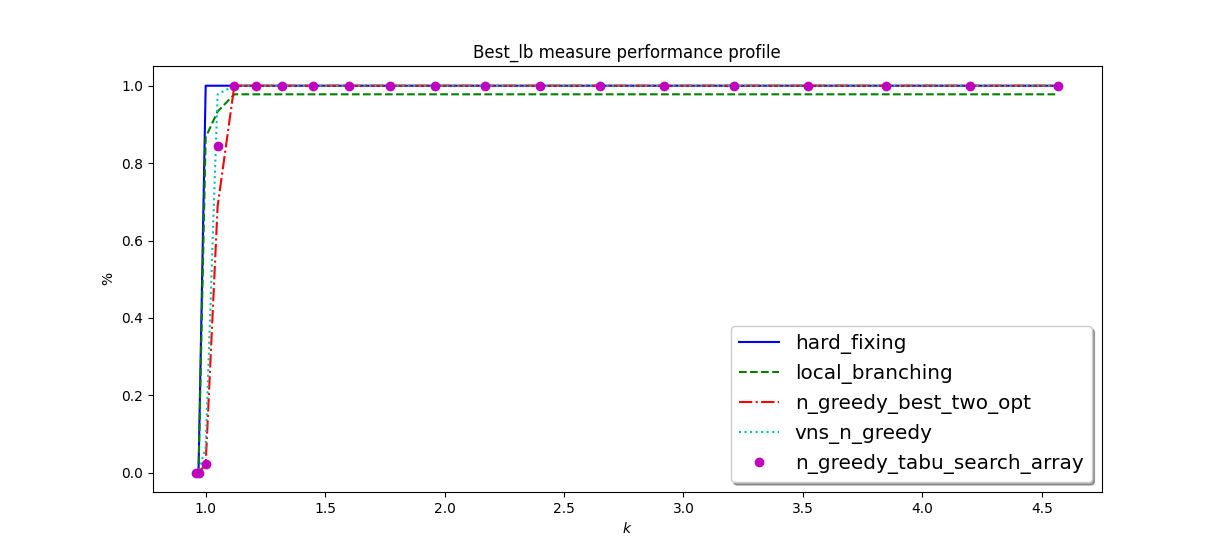
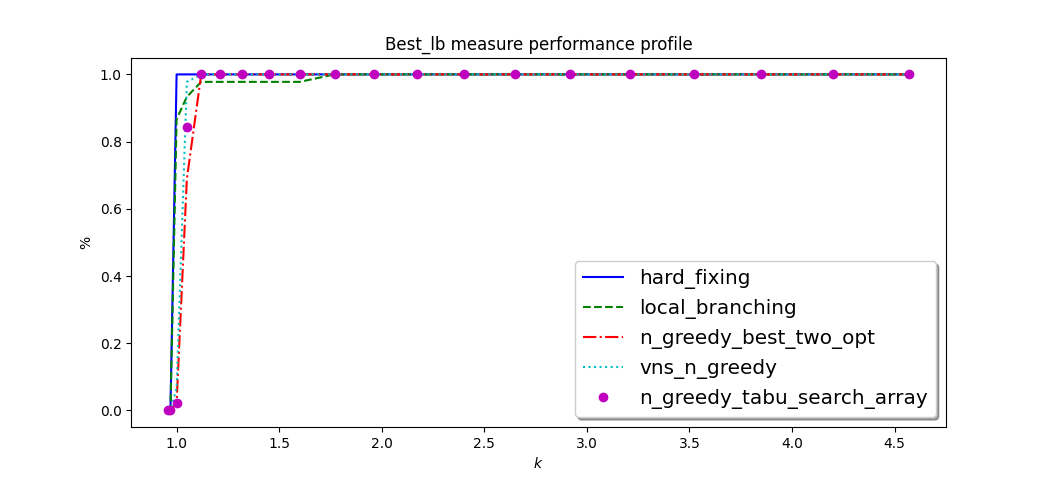
constructive, mip meta, latex update

diff --git a/Latex/Report.tex b/Latex/Report.tex
@@ -153,115 +153,105 @@
 	
 	\begin{appendices}
 		\chapter{Test-bed} \label{sec:testset}
-		The TSPLIB \cite{TSPLIB} is a library that contain different instances of TSP problem and its best solution found. All the file described in this section are part of the TSPLIB. To test the developed algorithm three different set have been prepared, depending on the number of node ($=|V|$) in the graph: Data Light, Data Average and Data Heavy.\\
-		These are all intended as sTSP, however the same instance can be considered also for aTSP replacing each edge with two arches with opposite direction. This subdivision is justified by the different execution time of the algorithms: it is more interesting to compare the performance of different algorithms in similar instances.\\
+		The TSPLIB \cite{TSPLIB} is a library that contain different instances of TSP problem and its best solution found. All the file described in this section are part of the TSPLIB. To test the developed algorithm three different set have been prepared, depending on the number of node ($|V|$) in the graph: Data Light, Data Average and Data Heavy.\\
+		These are all intended as sTSP, however the same instance can be considered also for aTSP replacing each edge with two arches with opposite direction. This subdivision is justified by the different execution time of the algorithms: it is more interesting to compare the performance of different algorithms in similar instances.
 		
 		\textbf{Data Light ($ |V| \le 150 $):}
-		\begin{multicols}{4}
-			\begin{itemize}
-				\item att48.tsp
-				\item berlin52.tsp
-				\item bier127.tsp
-				\item burma14.tsp
-				\item ch130.tsp
-				\item ch150.tsp
-				\item eil101.tsp
-				\item eil51.tsp
-				\item eil76.tsp
-				\item gr137.tsp
-				\item gr96.tsp
-				\item kroA100.tsp
-				\item kroA150.tsp
-				\item kroB100.tsp
-				\item kroB150.tsp
-				\item kroC100.tsp
-				\item kroD100.tsp
-				\item kroE100.tsp
-				\item lin105.tsp
-				\item pr107.tsp
-				\item pr124.tsp
-				\item pr136.tsp
-				\item pr144.tsp
-				\item pr76.tsp
-				\item rat99.tsp
-				\item rd100.tsp
-				\item st70.tsp
-				\item ulysses16.tsp
-				\item ulysses22.tsp
-			\end{itemize}
+		\begin{multicols}{5}
+			att48.tsp \\
+			berlin52.tsp \\
+			bier127.tsp \\
+			burma14.tsp \\
+			ch130.tsp \\
+			ch150.tsp \\
+			eil101.tsp \\
+			eil51.tsp \\
+			eil76.tsp \\
+			gr137.tsp \\
+			gr96.tsp \\
+			kroA100.tsp \\
+			kroA150.tsp \\
+			kroB100.tsp \\
+			kroB150.tsp \\
+			kroC100.tsp \\
+			kroD100.tsp \\
+			kroE100.tsp \\
+			lin105.tsp \\
+			pr107.tsp \\
+			pr124.tsp \\
+			pr136.tsp \\
+			pr144.tsp \\
+			pr76.tsp \\
+			rat99.tsp \\
+			rd100.tsp \\
+			st70.tsp \\
+			ulysses16.tsp \\
+			ulysses22.tsp \\
 		\end{multicols}
-		
-		
 		\textbf{Data Average ($ 150 < |V| \le 300 $):}
-		\begin{multicols}{4}
-			\begin{itemize}
-				\item a280.tsp
-				\item d198.tsp
-				\item gil262.tsp
-				\item gr202.tsp
-				\item gr229.tsp
-				\item kroA200.tsp
-				\item kroB200.tsp
-				\item pr152.tsp
-				\item pr226.tsp
-				\item pr264.tsp
-				\item pr299.tsp
-				\item rat195.tsp
-				\item rkoA200.tsp
-				\item ts225.tsp
-				\item tsp225.tsp
-				\item u159.tsp
-			\end{itemize}
+		\begin{multicols}{5}
+				a280.tsp \\
+				d198.tsp \\
+				gil262.tsp \\
+				gr202.tsp \\
+				gr229.tsp \\
+				kroA200.tsp \\
+				kroB200.tsp \\
+				pr152.tsp \\
+				pr226.tsp \\
+				pr264.tsp \\
+				pr299.tsp \\
+				rat195.tsp \\
+				rkoA200.tsp \\
+				ts225.tsp \\
+				tsp225.tsp \\
+				u159.tsp \\
 		\end{multicols}
-		
-		
 		\textbf{Data Heavy ($|V| > 300$):}
-		\begin{multicols}{4}
-			\begin{itemize}
-				\item ali535.tsp
-				\item att532.tsp
-				\item brd14051.tsp
-				\item d1291.tsp
-				\item d1655.tsp
-				\item d18512.tsp
-				\item d2103.tsp
-				\item d493.tsp
-				\item d657.tsp
-				\item fl1400.tsp
-				\item fl1577.tsp
-				\item fl3795.tsp
-				\item fl417.tsp
-				\item fnl4461.tsp
-				\item gr431.tsp
-				\item gr666.tsp
-				\item nrw1379.tsp
-				\item p654.tsp
-				\item pcb1173.tsp
-				\item pcb3038.tsp
-				\item pcb442.tsp
-				\item pr1002.tsp
-				\item pr2392.tsp
-				\item pr439.tsp
-				\item rat575.tsp
-				\item rat783.tsp
-				\item rd400.tsp
-				\item rl11849.tsp
-				\item rl1304.tsp
-				\item rl1323.tsp
-				\item rl1889.tsp
-				\item rl5915.tsp
-				\item rl5934.tsp
-				\item u1060.tsp
-				\item u1432.tsp
-				\item u1817.tsp
-				\item u2152.tsp
-				\item u2319.tsp
-				\item u574.tsp
-				\item u724.tsp
-				\item usa13509.tsp
-				\item vm1084.tsp
-				\item vm1748.tsp
-			\end{itemize}
+		\begin{multicols}{5}
+			ali535.tsp \\
+			att532.tsp \\
+			brd14051.tsp \\
+			d1291.tsp \\
+			d1655.tsp \\
+			d18512.tsp \\
+			d2103.tsp \\
+			d493.tsp \\
+			d657.tsp \\
+			fl1400.tsp \\
+			fl1577.tsp \\
+			fl3795.tsp \\
+			fl417.tsp \\
+			fnl4461.tsp \\
+			gr431.tsp \\
+			gr666.tsp \\
+			nrw1379.tsp \\
+			p654.tsp \\
+			pcb1173.tsp \\
+			pcb3038.tsp \\
+			pcb442.tsp \\
+			pr1002.tsp \\
+			pr2392.tsp \\
+			pr439.tsp \\
+			rat575.tsp \\
+			rat783.tsp \\
+			rd400.tsp \\
+			rl11849.tsp \\
+			rl1304.tsp \\
+			rl1323.tsp \\
+			rl1889.tsp \\
+			rl5915.tsp \\
+			rl5934.tsp \\
+			u1060.tsp \\
+			u1432.tsp \\
+			u1817.tsp \\
+			u2152.tsp \\
+			u2319.tsp \\
+			u574.tsp \\
+			u724.tsp \\
+			usa13509.tsp \\
+			vm1084.tsp \\
+			vm1748.tsp
 		\end{multicols}
 		
 		\chapter{Performance measure} \label{sec:performance_meausure}

diff --git a/Latex/mip-heuristics.tex b/Latex/mip-heuristics.tex
@@ -13,25 +13,32 @@ The algorithm can be divided in step:
 	\item check end condition: if the time limit is reached, or $ f_r = 0.0 $ and the solution is not improved in the last iteration then the solution is returned. Note that in the second case, the best solution is found. In case that no ending condition is satisfy, the algorithm continue with point 3.
 \end{enumerate}
 
-The performance profile as shown in fig \ref{fig:Lsubtours_hardfixing_lightaverage_time}. Hard fixing has performance comparable with the exact model.
-
-\begin{figure}[h]
-	\centering
-	\includegraphics[width=\columnwidth]{../res/Lsubtours_hardfixing_lightaverage_time.png}
-	\caption{Performance profile to compare subtours methods with \textit{hard\_fixing}. The name of \textit{hard\_fix} model contain in order: $ max\_f_r, incr_fr, decr\_f_r, good\_gap, optimal\_gap $. The test set is the composition of data\_light and data\_average.}
-	\label{fig:Lsubtours_hardfixing_lightaverage_time}
-\end{figure}
-
-
 \section{Local-Branching}
 The Local Branching is a relatively recent algorithm developed by Matteo Fischetti and Andrea Lodi, who wanted to propose an alternative method to Hard-Fixing. The Hard Fixing method, as stated above, fix randomly a percentage of edges and optimize the problem, Local Branching, instead, let the MIP model to fix the same percentage of edges automatically and than optimize. \\
 Consider $ x^H $ as non optimal tour and $ \chi $ the fraction of edges to fix, Local Branching add $ \sum_{ e\in E: x_e^H = 1 } x_e \ge \chi n $ to automatically fix the desired number of edges. \\ 
 In this paper, the structure of the algorithm is very similar to that of Hard-Fixing. Initialization is analogous to Point 1 (\ref{hard-fix-step})
 In the CPLEX optimization with time limit (Point 3), the time limit is a little higher and is set to 300 according to the choice of the fixing rate update. Thus, the fixing rate is an array consisting of 5 values {3.0, 5.0, 10.0, 15.0, 20.0}. It starts from the first value of 3.0 which is kept until better solutions are found. It is updated to the next value as soon as the algorithm returns a non-improving solution. \\
 This choice is motivated by the idea that keeping a low fixing rate allows you to find a solution in a short time and therefore not reach the time limit, which instead is set with a higher value to allow a longer search when the degrees of freedom increase.
-In this way, searches with high fixed\_rate are carried out only to find a new improvement solution in a larger neighborhood and are more successful with higher time limits. But as soon as a solution is found, it returns to the low and therefore fast fixed\_rate.\\
+In this way, searches with high fixed\_rate are carried out only to find a new improvement solution in a larger neighborhood and are more successful with higher time limits. But as soon as a solution is found, it returns to the lower and therefore faster fixed\_rate.\\
 Finally the check end condition: \\
 For a detailed explanation of the reasons for this algorithm refer to \cite{article}.
+
+
+\begin{figure}[h]
+	\centering
+	\begin{subfigure}{\columnwidth}
+		\includegraphics[width=\columnwidth]{../res/Lmip_meta_LA_time.png}
+		\caption{}
+		\label{fig:Lmip_meta_LA_time}
+	\end{subfigure}
+	\begin{subfigure}{\columnwidth}
+		\includegraphics[width=\columnwidth]{../res/Lmip_meta_LA_lb.png}
+		\caption{}
+		\label{fig:Lmip_meta_LA_lb}
+	\end{subfigure}
+\caption{Comparison of mip heuristics and meta heuristics. \texttt{n\_greedy\_best\_two\_opt} is the first part of \texttt{vns} therefore it is faster, however the last one introduce a little improvement in the solutions cost. Most of the times \texttt{hard\_fixing} can find the best solution of sTSP indeed it find the shorter tours of the analyzed heuristics. }
+\label{fig:Lmip_meta_LA}
+\end{figure}
 
 %\section{RINS}
 %\section{Feasibility Pump}

diff --git a/Latex/refining-heuristics.tex b/Latex/refining-heuristics.tex
@@ -43,7 +43,7 @@ As can be seen in fig. \ref{fig:lb_time_grasp_best_two_opt_d2103} multiple execu
 \begin{figure}[!h]
 \centering
 \includegraphics[width=.6\columnwidth]{../res/lb_time_grasp_best_two_opt_d2103.png}
-\caption{Solution cost profile of \texttt{best\_two\_opt}. \texttt{GRASP} has been used to find the first available solution.}
+\caption{Solution cost profile of \texttt{best\_two\_opt}. \texttt{GRASP} solution is used as warm start.}
 \label{fig:lb_time_grasp_best_two_opt_d2103}
 \end{figure}
 
@@ -53,26 +53,26 @@ In fig.s \ref{fig:a280_10} and \ref{fig:a280_25} can be compared the \texttt{Gre
 \begin{figure}[!h]
 	\begin{subfigure}{.5\columnwidth}
 		\centering
-		\includegraphics[width=\columnwidth]{../res/a280_10.png}
-		\caption{\texttt{Greedy}: cost=2975, time=4s}
+		\includegraphics[width=\columnwidth]{../res/a280_28.png}
+		\caption{\texttt{n\_greedy\_10}: cost=3078, time=0.45s}
 		\label{fig:a280_10}
 	\end{subfigure}
 	\begin{subfigure}{.5\columnwidth}
 		\centering
 		\includegraphics[width=\columnwidth]{../res/a280_25.png}
-		\caption{\texttt{greedy\_best\_two\_opt}: cost=2685, time=4s.}
+		\caption{\texttt{n\_greedy\_best\_two\_opt}: cost=2683, time=0.06s}
 		\label{fig:a280_25}
 	\end{subfigure}
 	\begin{subfigure}{.5\columnwidth}
 		\centering
 		\includegraphics[width=\columnwidth]{../res/lb_greedy_best_two_opt_a280.png}
-		\caption{The profile of the solution cost over time of the \texttt{best\_two\_opt} optimization.}
+		\caption{The profile of the solution cost over time of the \texttt{best\_two\_opt} optimization phase.}
 		\label{fig:lb_greedy_best_two_opt_a280}
 	\end{subfigure}
 	\begin{subfigure}{.5\columnwidth}
 		\centering
 		\includegraphics[width=\columnwidth]{../res/a280_0.png}
-		\caption{\texttt{subtour\_callback\_general}: cost=2579, time=8s.}
+		\caption{\texttt{subtour\_callback\_general}: cost=2579, time=8s}
 		\label{fig:a280_0}
 	\end{subfigure}
 \end{figure}
@@ -92,7 +92,7 @@ In fig.s \ref{fig:a280_10} and \ref{fig:a280_25} can be compared the \texttt{Gre
 		\caption{Performance profile in solution cost domain.}
 		\label{fig:Lconstructives_refining_lb}
 	\end{subfigure}
-\caption{Performance profile of constructive heuristic}
+\caption{Performance profile of refining heuristic}
 \label{fig:pp_Lconstructives_refining}
 \end{figure}
 
@@ -112,7 +112,7 @@ The performance profile in fig. \ref{fig:pp_Lgreedy_refining} compare greedy alg
 		\caption{Performance profile in solution cost domain.}
 		\label{fig:Lgreedy_refining_LA_lb}
 	\end{subfigure}
-	\caption{Performance profile of constructive heuristic}
+	\caption{Comparison of constructive vs refining heuristics of greedy methods.}
 	\label{fig:pp_Lgreedy_refining}
 \end{figure}
 
@@ -133,7 +133,8 @@ The effectiveness of the refining heuristic depend from the warm start solution.
 	\caption{Performance profile in solution cost domain.}
 	\label{fig:Lgrasp_insertion_refining_LA_lb}
 \end{subfigure}
-\caption{Performance profile of constructive heuristic}
+\caption{Comparison of constructive vs refining heuristics of grasp and insertion methods.}
 \label{fig:pp_Lgrasp_insertion_refining}
 \end{figure}
 
+In conclusion, \texttt{best\_two\_opt} is a really useful refining heuristic for its time efficiency and cost effectiveness, however its effectiveness depend from how many cross edges has the warm start solution.

diff --git a/Latex/CPLEX.tex b/Latex/CPLEX.tex
@@ -29,20 +29,20 @@ The subtour elimination model described above enhance an exponential number of c
 \begin{figure}[h]
 	\begin{subfigure}{.5\textwidth}
 		\centering
-		\includegraphics[width=\columnwidth]{../res/Lsubtours_average_time.png}
-		\caption{Performance profile of \textit{subtour} models on Data Average}
+		\includegraphics[width=\columnwidth]{../res/Lsubtours_lightaverage_time.png}
+		\caption{Performance profile of \textit{subtour} models on Data Average and Data Light}
 		\label{fig:res_subtour_av}
 	\end{subfigure}
 	\begin{subfigure}{.5\textwidth}
 	\centering
-	\includegraphics[width=\columnwidth]{../res/Lsubtours_light_time.png}
-	\caption{Performance profile of \textit{subtour} models on Data Light}
-	\label{fig:res_subtour_li}
+	\includegraphics[width=\columnwidth]{../res/Lsubtours_lightaverage_lb.png}
+	\caption{Solution cost profile of \textit{subtour} models on Data Average and Data Light.}
+	\label{fig:res_subtour_li}f
 	\end{subfigure}
 \end{figure}
 
 The performance profile in figure \ref{fig:res_subtour_av} is obtained by executing each subtour method in each Data Average instance for 5 different random seed generator. \\
-In this set of instances the \texttt{subtour\_callback\_lazy} perform better as expected. In Data Light set no significant evidence is enhance. This is because $ t_{exec} $ is near 10s ($ T_{min} $) and for little differences of $ t_{exec} $ the ratio $ r $ is near 1 (check appendix \ref{sec:performance_meausure} for more details.
+In this set of instances the \texttt{subtour\_callback\_lazy} perform better as expected. In Data Light set no significant evidence is enhance. This is because $ t_{exec} $ is near 10s ($ T_{min} $) and for little differences of $ t_{exec} $ the ratio $ r $ is near 1 (check appendix \ref{sec:performance_meausure} for more details).
 Morover it show that in the $ 80\%  $  of the instances the \texttt{subtour\_callback\_general} perform better than the other 3 alternatives.\\
 \texttt{subtour\_heur\_iter\_opt} seems to be faster than \texttt{subtour\_iter\_opt} for the discussed optimization. 
 

diff --git a/Latex/meta-euristici.tex b/Latex/meta-euristici.tex
@@ -27,15 +27,21 @@ Finally, the termination criterion can be based on a maximum number of iteration
 	\caption{Performance profile considering the execution time *** DA RIFARE IL GRAFICOOO ***}
 	\label{fig:tabu_search_perform_time}
 \end{figure}
-\begin{figure}[h]
+\begin{figure}[!h]
 	\centering
-	\includegraphics[width=0.7\columnwidth]{../res/Ltabu_LA_time.png}
-	\caption{Performance profile considering the execution time}
-	\label{fig:tabu_search_diff_perform_time}
-
-	\includegraphics[width=0.7\columnwidth]{../res/Ltabu_LA_lb.png}
-	\caption{Performance profile considering the execution time}
-	\label{fig:tabu_search_diff_perform_lb}
+	\begin{subfigure}{0.49\columnwidth}
+		\centering
+		\includegraphics[width=\columnwidth]{../res/Ltabu_LA_time.png}
+		\caption{Performance profile considering the execution time}
+		\label{fig:tabu_search_diff_perform_time}
+	\end{subfigure}
+\hfill
+	\begin{subfigure}{0.49\columnwidth}
+		\centering
+		\includegraphics[width=\columnwidth]{../res/Ltabu_LA_lb.png}
+		\caption{Performance profile considering the solution cost}
+		\label{fig:tabu_search_diff_perform_lb}
+	\end{subfigure}
 \end{figure}
 
 \section{Simulated-Annealing}

diff --git a/Latex/repair.tex b/Latex/repair.tex
@@ -7,7 +7,7 @@ The proposed algorithm work through the 6 steps represented in fig \ref{fig:sing
 \begin{figure}[!h]
 	\begin{subfigure}{.26\columnwidth}
 		\includegraphics[width=\columnwidth]{img/patching1.png}
-		\caption{The single patch input instance.}
+		\caption{The \texttt{single\_patch} input instance.}
 		\label{fig:patching1}
 	\end{subfigure}
 \hfill%
@@ -19,7 +19,7 @@ The proposed algorithm work through the 6 steps represented in fig \ref{fig:sing
 \hfill%
 	\begin{subfigure}{.26\columnwidth}
 		\includegraphics[width=\columnwidth]{img/patching3.png}
-		\caption{It is selected the closer node to $ 3 $ which is a different tour (node $ 4 $).}
+		\caption{It is selected the closer node to $ 3 $ which is in a different tour (node $ 4 $).}
 		\label{fig:patching3}
 	\end{subfigure}
 	\begin{subfigure}{.26\columnwidth}
